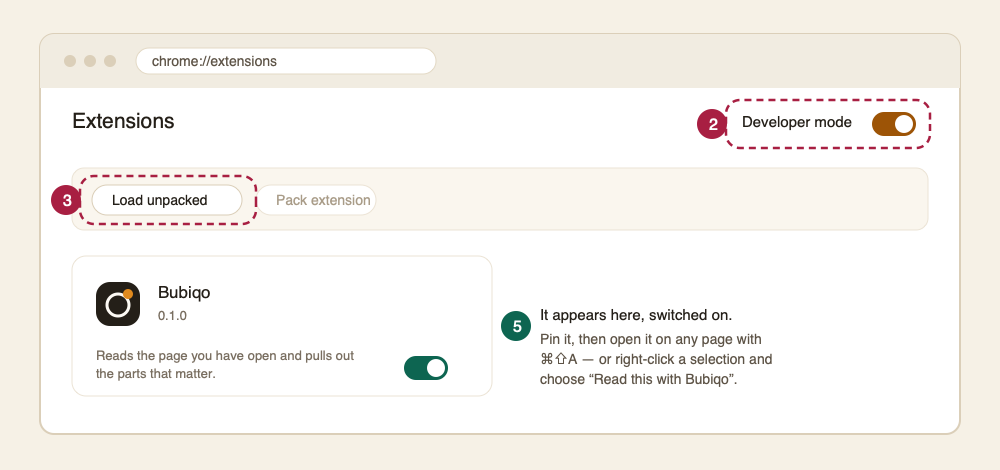
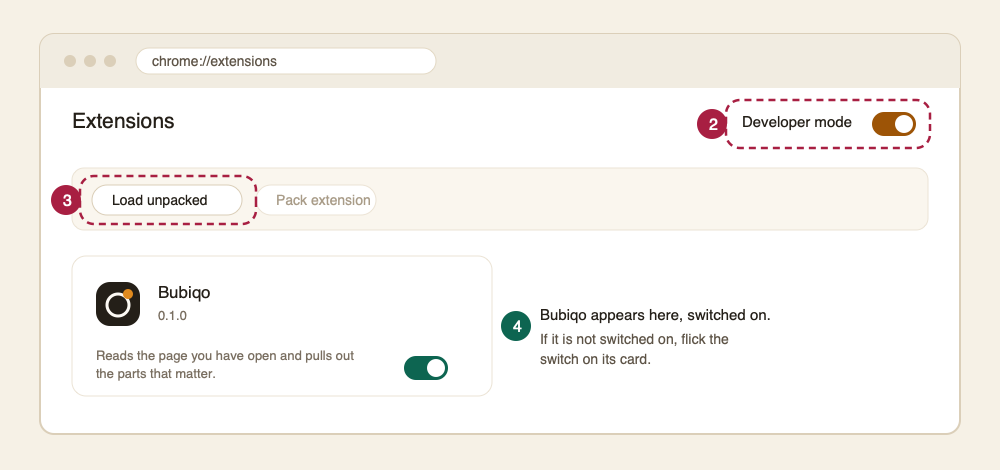
docs: number the install steps properly, and pin before clicking
Three faults in the instructions I wrote an hour ago.

The numbering read 1, 2–3, 4, 5 with a nested 1, 2, 3 inside the second heading,
so a reader counting along saw 1, 2, 4, 5 and went looking for the missing step.
Every step now has one number, 1 to 7, and the numbers in the diagrams match the
numbers in the text.

It told the reader to press ⌘⇧A. Keyboard shortcuts are not assigned reliably —
Chrome silently drops one that clashes with something already bound — so the
instruction could simply not work, with nothing to explain why. Clicking the
toolbar icon always works: the worker sets openPanelOnActionClick, which is what
makes the action open the panel. So: pin it, then click it.

Pinning was a parenthesis — "pin it to the toolbar if you like" — when it is the
step that makes the icon exist to be clicked. It now has its own diagram: the
puzzle piece, the pin beside Bubiqo, and the icon sitting on the toolbar
afterwards.

Changed region(s): [[0.527, 0.7149, 0.775, 0.834], [0.527, 0.6553, 0.775, 0.6851], [0.496, 0.6851, 0.527, 0.7149]]

diff --git a/README.md b/README.md
@@ -18,11 +18,10 @@
 
 ## Install it
 
-Bubiqo is not on the Chrome Web Store yet, so you load it yourself. It takes
-about two minutes, and you need [Node.js 20+](https://nodejs.org) and Chrome 116
-or newer.
+Bubiqo is not on the Chrome Web Store yet, so you load it yourself. About two
+minutes. You need [Node.js 20+](https://nodejs.org) and Chrome 116 or newer.
 
-### 1. Build it
+### Step 1 — build it
 
 ```bash
 git clone https://github.com/SayamDev/bubiqo.git
@@ -31,54 +30,68 @@ npm install
 npm run build
 ```
 
-That writes the extension into a folder called `dist`. Leave the terminal open —
-you will need the path in step 4.
+This creates a folder called `dist`. That folder *is* the extension. Keep the
+terminal open — you will want the path in step 5.
 
-### 2 – 3. Load it into Chrome
+### Steps 2, 3 and 4 — load it into Chrome
 
-![Diagram of the Chrome extensions page: Developer mode is switched on at the top right, which makes the Load unpacked button appear at the top left](docs/brand/install.png)
+![Diagram of the Chrome extensions page: Developer mode is switched on at the top right, which makes the Load unpacked button appear at the top left, and Bubiqo then appears as a card below](docs/brand/install.png)
 
-*A diagram, not a screenshot — Chrome's own pages cannot be captured.*
+*A diagram, not a screenshot — Chrome will not let its own pages be captured.*
 
-1. Open a new tab and go to **`chrome://extensions`**.
-2. Turn on **Developer mode** — the switch at the **top right**. Nothing appears
-   to happen until you do this.
-3. Press **Load unpacked**, which has just appeared at the **top left**.
+**2.** Open a new tab, type **`chrome://extensions`** in the address bar and press Enter.
 
-### 4. Pick the `dist` folder
+**3.** Turn on **Developer mode**, the switch at the **top right**. Until you do,
+the button you need in the next step does not exist.
 
-In the file picker, choose the **`dist`** folder inside the `bubiqo` folder you
-cloned — not the `bubiqo` folder itself, and not anything inside `dist`.
+**4.** Press **Load unpacked**, which has just appeared at the **top left**.
 
-> On macOS you can press <kbd>⌘</kbd><kbd>⇧</kbd><kbd>G</kbd> in the picker and
-> paste the path. To get it, run `pwd` in the terminal from step 1 and add
-> `/dist` to the end.
+### Step 5 — choose the `dist` folder
 
-### 5. Open it on a page
+In the file picker, open the `bubiqo` folder you cloned, click once on **`dist`**
+to select it, and press **Select**.
 
-Bubiqo appears in the list, switched on. Pin it to the toolbar if you like, then:
+Pick `dist` itself — not the `bubiqo` folder around it, and not a file inside
+`dist`. If you get *"Manifest file is missing or unreadable"*, the wrong folder
+was selected; try again.
 
-- Open any job advert, email or invoice and press <kbd>⌘</kbd><kbd>⇧</kbd><kbd>A</kbd>
-  (<kbd>Ctrl</kbd><kbd>Shift</kbd><kbd>A</kbd> on Windows), **or**
-- Select the part of the page you care about, right-click, and choose
-  **“Read this with Bubiqo”** — the most reliable way on a busy page.
+> **Shortcut:** in the picker press <kbd>⌘</kbd><kbd>⇧</kbd><kbd>G</kbd> (macOS)
+> and paste the path. Run `pwd` in your terminal from step 1 and add `/dist`.
 
-The first time you open it on a site, Chrome asks whether Bubiqo may read that
-site. It cannot read anything until you say yes, and you can revoke it later at
-`chrome://extensions`.
+Bubiqo now appears in the list with its switch on.
 
-This is what you should see on a job advert:
+### Steps 6 and 7 — pin it, then click it
+
+![Diagram of the Chrome toolbar: press the puzzle-piece Extensions button, press the pin beside Bubiqo, and its icon stays on the toolbar ready to click](docs/brand/pin.png)
+
+**6.** Press the **puzzle piece** at the right of the toolbar, find **Bubiqo**,
+and press the **pin** beside it. Its icon now stays on the toolbar.
+
+**7.** Open any job advert, email or invoice, and **click the Bubiqo icon**. The
+panel opens beside the page and reads it.
+
+The first time you use it on a site, Chrome asks whether Bubiqo may read that
+site. It cannot read anything until you say yes, and you can take the permission
+back at `chrome://extensions` whenever you like.
+
+This is what you should see:
 
 ![The Bubiqo side panel open beside a job advert, showing the pay, the closing date, the contract, and what the advert asks for](docs/brand/panel.png)
 
+**On a busy page** — a job board with twenty adverts on screen — select the advert
+you mean, right-click, and choose **"Read this with Bubiqo"**. Selecting is the
+one unambiguous way to say which part of a page you mean, and it cannot be broken
+by a site redesign.
+
 ### If something goes wrong
 
-| What you see | What it means |
+| What you see | What to do |
 |---|---|
-| **“Manifest file is missing or unreadable”** | The wrong folder was picked. It must be `dist`, which contains `manifest.json`. |
-| **The panel says it needs permission** | Press **Allow** on the prompt, or grant the site at `chrome://extensions` → Bubiqo → Site access. |
-| **The panel is empty on a `chrome://` page** | No extension can read Chrome's own pages. Open an ordinary web page. |
-| **You changed the code** | Run `npm run build` again, then press the **reload** icon on the Bubiqo card at `chrome://extensions`. |
+| **"Manifest file is missing or unreadable"** | The wrong folder was picked in step 5. It must be `dist`, the folder containing `manifest.json`. |
+| **Clicking the icon does nothing** | Reload the extension: `chrome://extensions` → the reload icon on the Bubiqo card. |
+| **The panel says it needs permission** | Press **Allow**. Or grant it at `chrome://extensions` → Bubiqo → Site access. |
+| **The panel is blank on a `chrome://` page** | No extension may read Chrome's own pages. Open an ordinary web page. |
+| **You changed the code** | Run `npm run build`, then press reload on the Bubiqo card. |
 
 ---
 
